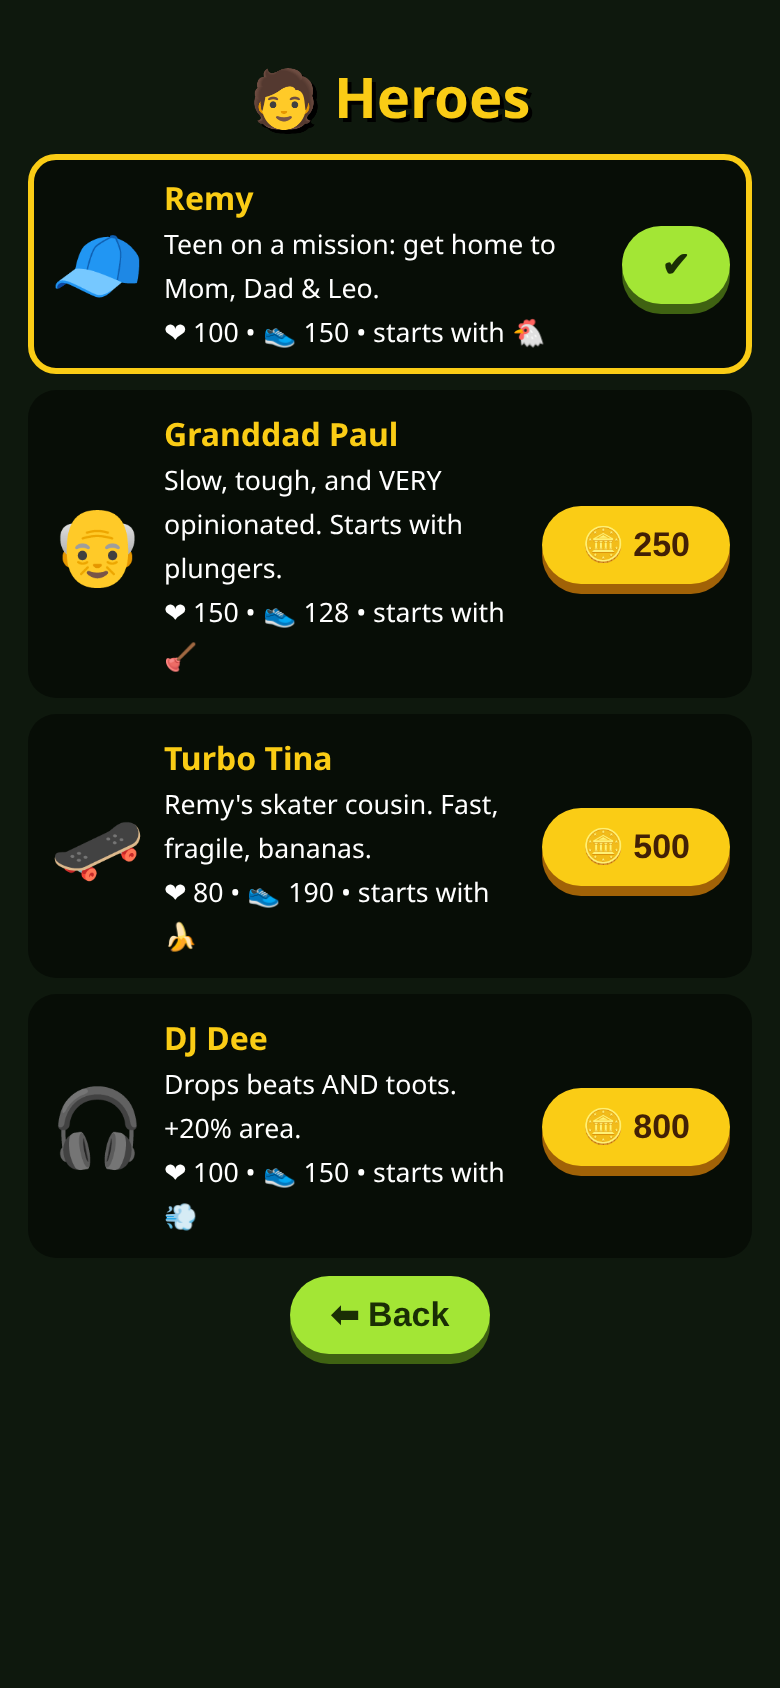
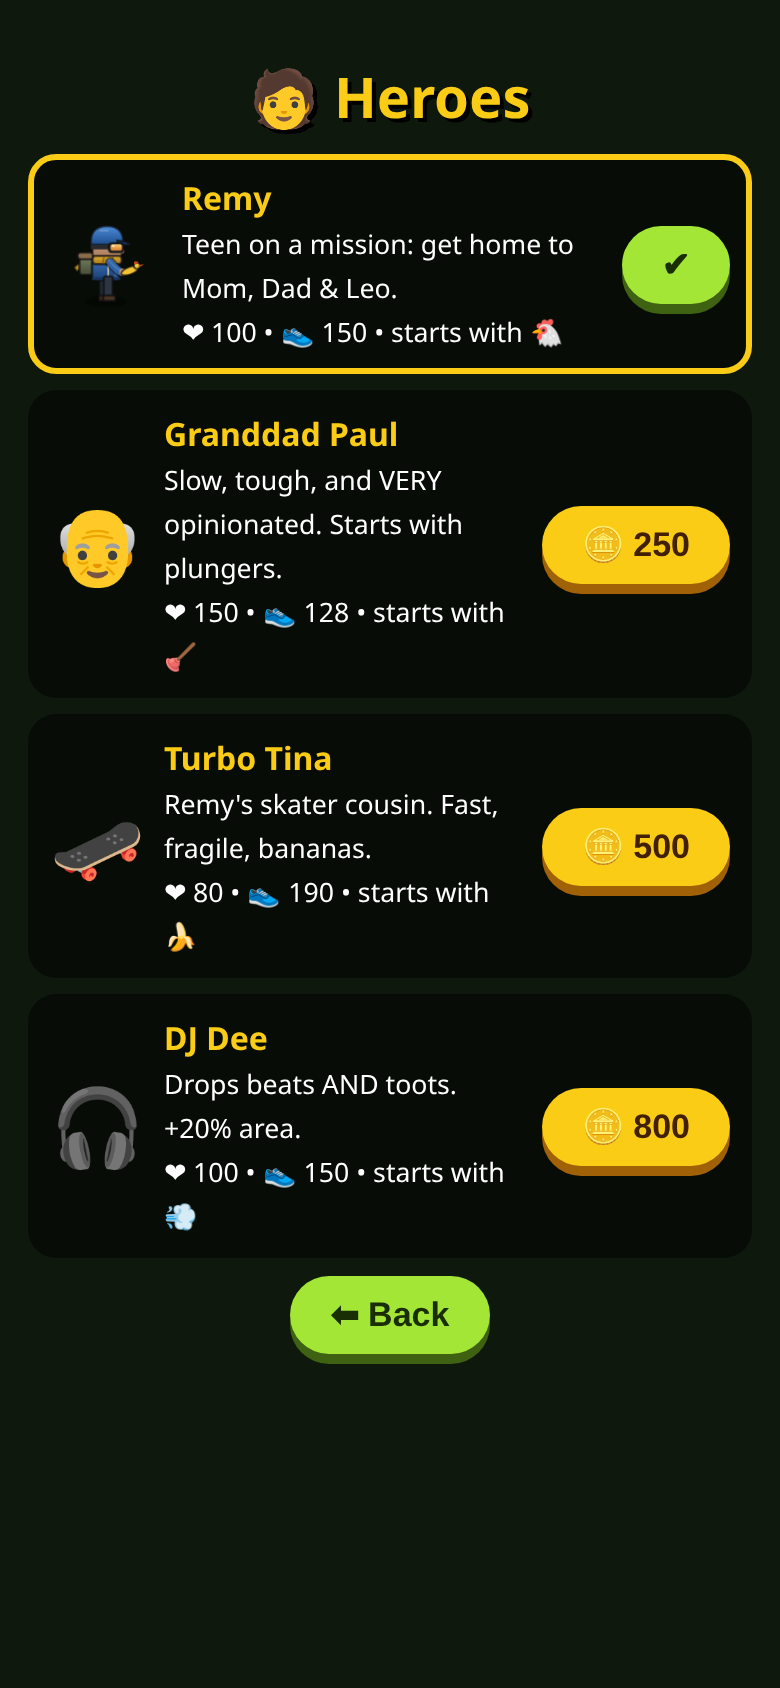
Remy restyle: chunky goggles/scarf survivor, consistent in comic/cutscenes/hero select; SW v13

Changed region(s): [[0.2154, 0.0924, 0.7385, 0.2156], [0.0615, 0.1232, 0.1846, 0.1848]]

diff --git a/game.js b/game.js
@@ -276,12 +276,48 @@ function buildAtlas(){const items=[];const flip=c=>{const o=document.createEleme
  for(const it of items){g.drawImage(it.c,it.b[0],it.b[1],it.b[2],it.b[3],it.x,it.y,it.b[2],it.b[3])}
  for(const dst of[ZA,HA])for(const k in dst)dst[k]=dst[k].map(it=>[it.x,it.y,it.b[2],it.b[3],(it.b[0]-it.full/2)/2,(it.b[1]-it.full/2)/2,it.b[2]/2,it.b[3]/2])}
 function blitA(a,x,y){cx.drawImage(ATL,a[0],a[1],a[2],a[3],x+a[4],y+a[5],a[6],a[7])}
+// Remy (v13): original chunky survivor. Rounded blue helmet-cap with short brim, amber goggles on a strap, long mustard scarf, boxy jacket, bedroll pack, rubber chicken in hand. No mouth/smiley.
+function hRemy(g,c,r,f){const ph=f/4*Math.PI*2,sw=Math.sin(ph),bob=Math.abs(Math.cos(ph))*r*.06;
+ const footY=c+r*1.3,hipY=c+r*.55-bob,shY=c-r*.15-bob,hx=c,O="rgba(14,14,16,.7)";
+ const box=(x,y,w,h,rr,fill)=>{g.fillStyle=fill;g.beginPath();g.roundRect(x,y,w,h,rr);g.fill();g.strokeStyle=O;g.lineWidth=1.3;g.stroke()};
+ g.fillStyle="rgba(0,0,0,.32)";g.beginPath();g.ellipse(c,footY+r*.04,r*.75,r*.2,0,0,7);g.fill();
+ // scarf tail trailing behind, flutters with the step
+ g.fillStyle="#b88a1c";g.strokeStyle=O;g.lineWidth=1.1;g.beginPath();g.moveTo(hx-r*.25,shY+r*.02);g.quadraticCurveTo(hx-r*.85,shY+r*.05+sw*r*.08,hx-r*1.15,shY+r*.32-sw*r*.1);g.lineTo(hx-r*1.05,shY+r*.48-sw*r*.1);g.quadraticCurveTo(hx-r*.75,shY+r*.28,hx-r*.2,shY+r*.24);g.closePath();g.fill();g.stroke();
+ // bedroll pack
+ box(hx-r*.95,shY-r*.02,r*.48,r*.62,r*.1,shade(g,0,shY,0,hipY,"#6f7a5a","#3f4733"));box(hx-r*1.02,shY-r*.2,r*.6,r*.24,r*.12,"#8a6b4a");
+ // legs: short, chunky, boots
+ const leg=(dx,cl,bt)=>{g.fillStyle=cl;g.strokeStyle=O;g.lineWidth=1.2;g.beginPath();g.roundRect(hx+dx-r*.16,hipY-r*.05,r*.32,footY-hipY-r*.05,r*.08);g.fill();g.stroke();box(hx+dx-r*.18,footY-r*.18,r*.44,r*.2,r*.07,bt)};
+ leg(-sw*r*.28-r*.08,"#252b36","#3d2c20");
+ // torso: boxy jacket
+ box(hx-r*.5,shY,r*1.0,hipY-shY+r*.1,r*.18,shade(g,0,shY,0,hipY,"#3a73bd","#1f4479"));
+ g.fillStyle="rgba(255,255,255,.14)";g.fillRect(hx+r*.3,shY+r*.08,r*.08,hipY-shY-r*.1);g.fillStyle="#173560";g.fillRect(hx-r*.5,hipY-r*.02,r*1.0,r*.1);g.fillStyle="#d9d0b8";g.fillRect(hx+r*.05,shY+r*.2,r*.05,hipY-shY-r*.25);// zip
+ leg(sw*r*.28+r*.08,"#2e3644","#4a3424");
+ // head: chunky rounded block
+ const hw=r*1.05,hh=r*.95,hX=hx+r*.04,hY=shY-hh+r*.08;box(hX-hw/2,hY,hw,hh,r*.26,shade(g,0,hY,0,hY+hh,"#d6a684","#a87a5a"));
+ g.fillStyle="#b9845f";g.beginPath();g.ellipse(hX+hw*.5,hY+hh*.66,r*.09,r*.08,0,0,7);g.fill();// nose bump, no mouth
+ // helmet-cap: rounded dome + short brim
+ g.fillStyle=shade(g,0,hY-r*.25,0,hY+hh*.4,"#4b8ad6","#1f4f8f");g.beginPath();g.moveTo(hX-hw*.56,hY+hh*.42);g.quadraticCurveTo(hX-hw*.6,hY-r*.28,hX,hY-r*.28);g.quadraticCurveTo(hX+hw*.58,hY-r*.28,hX+hw*.56,hY+hh*.42);g.closePath();g.fill();g.strokeStyle=O;g.lineWidth=1.3;g.stroke();
+ g.fillStyle="#173f73";g.beginPath();g.moveTo(hX+hw*.35,hY+hh*.26);g.quadraticCurveTo(hX+hw*.75,hY+hh*.28,hX+hw*.8,hY+hh*.42);g.lineTo(hX+hw*.35,hY+hh*.44);g.closePath();g.fill();g.stroke();
+ g.fillStyle="rgba(255,255,255,.2)";g.fillRect(hX-hw*.25,hY-r*.15,hw*.3,r*.07);
+ // goggles: strap + one big amber lens (side view) + rim
+ g.fillStyle="#2a2a2e";g.fillRect(hX-hw*.56,hY+hh*.42,hw*1.06,r*.16);
+ g.fillStyle="#3b3b40";g.beginPath();g.roundRect(hX+hw*.06,hY+hh*.36,hw*.5,r*.32,r*.1);g.fill();g.strokeStyle=O;g.stroke();
+ const lg=g.createLinearGradient(0,hY+hh*.38,0,hY+hh*.38+r*.26);lg.addColorStop(0,"#ffd27a");lg.addColorStop(1,"#d9771f");g.fillStyle=lg;g.beginPath();g.roundRect(hX+hw*.12,hY+hh*.4,hw*.38,r*.22,r*.07);g.fill();
+ g.fillStyle="rgba(255,255,255,.65)";g.fillRect(hX+hw*.17,hY+hh*.43,hw*.08,r*.06);
+ // scarf wrap around neck (chunky, covers chin)
+ box(hX-hw*.5,hY+hh-r*.16,hw*1.0,r*.3,r*.12,shade(g,0,hY+hh-r*.16,0,hY+hh+r*.14,"#e0ae34","#a8781a"));g.strokeStyle="rgba(120,80,10,.6)";g.lineWidth=1;g.beginPath();g.moveTo(hX-hw*.1,hY+hh-r*.14);g.lineTo(hX-hw*.15,hY+hh+r*.12);g.moveTo(hX+hw*.2,hY+hh-r*.14);g.lineTo(hX+hw*.15,hY+hh+r*.12);g.stroke();
+ // front arm (short, chunky) holding the rubber chicken (his starting weapon)
+ const ax=hx+r*.15,ay=shY+r*.15,ex=ax+r*.4-sw*r*.06,ey=ay+r*.35;limb(g,ax,ay,ax+r*.25,ay+r*.3,ex,ey,r*.26,"#2f62a8");g.fillStyle="#c9956f";g.beginPath();g.arc(ex+r*.06,ey,r*.13,0,7);g.fill();
+ g.save();g.translate(ex+r*.3,ey-r*.05);g.rotate(-.35-sw*.1);g.fillStyle="#f1c232";g.strokeStyle=O;g.lineWidth=1;g.beginPath();g.ellipse(0,0,r*.32,r*.13,0,0,7);g.fill();g.stroke();
+ g.beginPath();g.arc(r*.3,-r*.08,r*.11,0,7);g.fill();g.stroke();g.fillStyle="#d9461f";g.beginPath();g.moveTo(r*.4,-r*.08);g.lineTo(r*.55,-r*.04);g.lineTo(r*.4,-r*.01);g.fill();g.beginPath();g.arc(r*.28,-r*.2,r*.05,0,7);g.arc(r*.34,-r*.19,r*.04,0,7);g.fill();g.restore()}
+// draws Remy's hero frame into comic/cutscene art so he matches in-game
+function cRemy(g,x,y,ht,o={}){cFig(g,HS.remy[o.fr||0],x,y,ht,o.f<0);if(o.phone){g.fillStyle="#111";g.fillRect(x+(o.f<0?-1:1)*ht*.12-ht*.04,y-ht*.86,ht*.07,ht*.12)}}
 function buildZombies(){for(const k in ZT){const z=ZT[k],r=z.r,s=Math.ceil(r*(k==="boss"?3.9:3.4)+10);ZS[k]=[];
  for(let f=0;f<4;f++){mkSpr("z_"+k+f,s,(g,c)=>{if(k==="dog")zDog(g,c,r,f);else zHuman(g,c,r,ZL[k],f)});ZS[k].push(SPR["z_"+k+f])}SPR["z_"+k]=ZS[k][0]}}
 function drawZ(z,face){blitA(ZA[z.type][(((z.wob*(z.type==="dog"||z.type==="runner"?1.5:1))&3)<<1)|(face<0?1:0)],z.x,z.y)}
 function buildSprites(){
  buildZombies();
- for(const k in HEROES){HS[k]=[];for(let f=0;f<4;f++){mkSpr("h_"+k+f,62,(g,c)=>hHuman(g,c,15.5,HL[k],f));HS[k].push(SPR["h_"+k+f])}SPR["h_"+k]=HS[k][0]}
+ for(const k in HEROES){HS[k]=[];for(let f=0;f<4;f++){mkSpr("h_"+k+f,62,(g,c)=>k==="remy"?hRemy(g,c,15.5,f):hHuman(g,c,15.5,HL[k],f));HS[k].push(SPR["h_"+k+f])}SPR["h_"+k]=HS[k][0]}
  buildAtlas();
  const em=["🐔","🍌","🪠","🦆","🥧","🍗","🪙","🍕","🧲","🎁","🐱","😼","🍨","🔥","🧀"];
  for(const e of em)mkSpr("e_"+e,36,(g,c)=>{g.font="26px serif";g.textAlign="center";g.textBaseline="middle";g.fillText(e,c,c+1)});
@@ -566,13 +602,13 @@ function cZ(g,k,x,y,s,f){const c=ZS[k][1],w=c.width/2*s;g.save();g.translate(x,y
 function cArt(set,i,w,h){const key=set+i+"_"+w+"x"+h;if(PART[key])return PART[key];const cv2=document.createElement("canvas");cv2.width=w*2;cv2.height=h*2;const g=cv2.getContext("2d");g.scale(2,2);
  const sc=SCENE[set][i],gy=h*.86,u=Math.min(w,h)/220;const sky=(a,b)=>{const gr=g.createLinearGradient(0,0,0,h);gr.addColorStop(0,a);gr.addColorStop(1,b);g.fillStyle=gr;g.fillRect(0,0,w,h)};
  const ground=c=>{g.fillStyle=c;g.fillRect(0,gy,w,h-gy)};const house=(x,y,hw,col)=>{g.fillStyle=col;g.fillRect(x,y-hw*.6,hw,hw*.6);g.beginPath();g.moveTo(x-6,y-hw*.6);g.lineTo(x+hw/2,y-hw);g.lineTo(x+hw+6,y-hw*.6);g.fill();g.fillStyle="#c9a85a";g.fillRect(x+hw*.15,y-hw*.45,hw*.18,hw*.15);g.fillStyle="#1a1714";g.fillRect(x+hw*.6,y-hw*.35,hw*.18,hw*.35)};
- if(sc==="home"){sky("#6d7a86","#a9a087");ground("#4b5240");house(w*.55,gy,w*.38,"#5b544a");cHum(g,w*.25,gy,u*1.3,"#3c5a7a",{phone:1,cap:"#2f4a66"});cHum(g,w*.44,gy,u*1.25,"#6b6b6b",{hair:"#cfcfcf",f:-1})}
+ if(sc==="home"){sky("#6d7a86","#a9a087");ground("#4b5240");house(w*.55,gy,w*.38,"#5b544a");cRemy(g,w*.25,gy,58*u*1.3,{phone:1});cHum(g,w*.44,gy,u*1.25,"#6b6b6b",{hair:"#cfcfcf",f:-1})}
  if(sc==="call"){sky("#2c2a33","#4a3f3a");g.fillStyle="#1b1a1e";g.fillRect(w*.08,h*.12,w*.42,h*.5);g.fillStyle="#5d6470";g.fillRect(w*.1,h*.14,w*.38,h*.46);cZ(g,"shamb",w*.2,h*.62,u*1.2,0);cZ(g,"runner",w*.36,h*.62,u*1.1,1);g.fillStyle="#1b1a1e";g.fillRect(w*.285,h*.12,w*.02,h*.5);ground("#2d2925");cHum(g,w*.72,gy,u*1.35,"#4e5a4a",{phone:1,f:-1})}
- if(sc==="dropped"){sky("#7c838a","#8f8775");ground("#4b5240");g.fillStyle="#3a3530";g.fillRect(w*.68,gy-h*.28,4,h*.28);g.fillStyle="#565049";g.fillRect(w*.64,gy-h*.34,w*.12,h*.08);cZ(g,"shamb",w*.78,gy,u*1.4,1);cHum(g,w*.28,gy,u*1.35,"#3c5a7a",{phone:1,cap:"#2f4a66"})}
- if(sc==="garage"){sky("#3b3631","#5a5048");g.fillStyle="#2b2723";for(let j=0;j<3;j++)g.fillRect(0,h*(.2+j*.18),w,4);ground("#35312c");g.fillStyle="#7a6446";g.fillRect(w*.45,gy-h*.42,w*.1,h*.08);cHum(g,w*.34,gy,u*1.3,"#6b6b6b",{hair:"#cfcfcf",reach:1});cHum(g,w*.68,gy,u*1.3,"#3c5a7a",{cap:"#2f4a66",reach:1,f:-1})}
- if(sc==="road"){sky("#8a7f6c","#b3a17f");g.fillStyle="#3a3a38";g.beginPath();g.moveTo(w*.42,h*.45);g.lineTo(w*.58,h*.45);g.lineTo(w*.95,h);g.lineTo(w*.05,h);g.fill();g.fillStyle="#6b6448";g.fillRect(0,h*.45,w*.42,h*.02);cZ(g,"shamb",w*.55,h*.6,u*.6,1);cZ(g,"runner",w*.66,h*.68,u*.75,1);cZ(g,"shamb",w*.3,h*.7,u*.8,0);cHum(g,w*.48,h*.97,u*1.3,"#3c5a7a",{cap:"#2f4a66"})}
- if(sc==="door"){sky("#3a3632","#5c5348");ground("#3e4236");house(w*.3,gy,w*.5,"#5a524a");cZ(g,"boss",w*.2,gy,u*.7,0);g.fillStyle="rgba(120,150,60,.35)";g.beginPath();g.ellipse(w*.2,gy-h*.15,w*.16,h*.12,0,0,7);g.fill();cHum(g,w*.82,gy,u*1.3,"#3c5a7a",{cap:"#2f4a66",f:-1})}
- if(sc==="family"){sky("#5d5850","#857a68");ground("#4a4238");cHum(g,w*.2,gy,u*1.25,"#6e4f5a",{hair:"#4a3020"});cHum(g,w*.4,gy,u*1.35,"#4e5a4a",{});cHum(g,w*.6,gy,u*1.3,"#3c5a7a",{cap:"#2f4a66"});cHum(g,w*.8,gy,u*.85,"#7a6a3e",{pot:1,f:-1})}
+ if(sc==="dropped"){sky("#7c838a","#8f8775");ground("#4b5240");g.fillStyle="#3a3530";g.fillRect(w*.68,gy-h*.28,4,h*.28);g.fillStyle="#565049";g.fillRect(w*.64,gy-h*.34,w*.12,h*.08);cZ(g,"shamb",w*.78,gy,u*1.4,1);cRemy(g,w*.28,gy,58*u*1.35,{phone:1})}
+ if(sc==="garage"){sky("#3b3631","#5a5048");g.fillStyle="#2b2723";for(let j=0;j<3;j++)g.fillRect(0,h*(.2+j*.18),w,4);ground("#35312c");g.fillStyle="#7a6446";g.fillRect(w*.45,gy-h*.42,w*.1,h*.08);cHum(g,w*.34,gy,u*1.3,"#6b6b6b",{hair:"#cfcfcf",reach:1});cRemy(g,w*.68,gy,58*u*1.3,{f:-1})}
+ if(sc==="road"){sky("#8a7f6c","#b3a17f");g.fillStyle="#3a3a38";g.beginPath();g.moveTo(w*.42,h*.45);g.lineTo(w*.58,h*.45);g.lineTo(w*.95,h);g.lineTo(w*.05,h);g.fill();g.fillStyle="#6b6448";g.fillRect(0,h*.45,w*.42,h*.02);cZ(g,"shamb",w*.55,h*.6,u*.6,1);cZ(g,"runner",w*.66,h*.68,u*.75,1);cZ(g,"shamb",w*.3,h*.7,u*.8,0);cRemy(g,w*.48,h*.97,58*u*1.3,{})}
+ if(sc==="door"){sky("#3a3632","#5c5348");ground("#3e4236");house(w*.3,gy,w*.5,"#5a524a");cZ(g,"boss",w*.2,gy,u*.7,0);g.fillStyle="rgba(120,150,60,.35)";g.beginPath();g.ellipse(w*.2,gy-h*.15,w*.16,h*.12,0,0,7);g.fill();cRemy(g,w*.82,gy,58*u*1.3,{f:-1})}
+ if(sc==="family"){sky("#5d5850","#857a68");ground("#4a4238");cHum(g,w*.2,gy,u*1.25,"#6e4f5a",{hair:"#4a3020"});cHum(g,w*.4,gy,u*1.35,"#4e5a4a",{});cRemy(g,w*.6,gy,58*u*1.3,{});cHum(g,w*.8,gy,u*.85,"#7a6a3e",{pot:1,f:-1})}
  if(sc==="couch"){sky("#4a4440","#6a5e52");ground("#3a332c");g.fillStyle="#5a3e34";g.fillRect(w*.12,gy-h*.22,w*.76,h*.16);g.fillRect(w*.1,gy-h*.34,w*.8,h*.12);[.25,.42,.58,.74].forEach((x,j)=>cHum(g,w*x,gy-h*.12,u*(j===3?.7:1),["#6e4f5a","#4e5a4a","#3c5a7a","#7a6a3e"][j],{cap:j===2?"#2f4a66":0}));g.fillStyle="#111";g.fillRect(w*.86,gy-h*.42,6,10)}
  // ink texture: halftone dots + vignette + border
  g.fillStyle="rgba(0,0,0,.13)";for(let y=0;y<h;y+=6)for(let x=(y/6%2)*3;x<w;x+=6){const r=.4+1.4*(y/h);g.beginPath();g.arc(x,y,r,0,7);g.fill()}
@@ -617,7 +653,8 @@ function cutArt(i,w,h){const key=i+"_"+w+"x"+h;if(CUTS[key])return CUTS[key];con
  const rx=w*.16,ry=h*1.02,rr=Math.min(w,h)*.2;g.fillStyle="#2a3a4c";g.beginPath();g.ellipse(rx,ry+rr*.6,rr*1.6,rr*.75,0,Math.PI,0);g.fill();
  const hg=g.createRadialGradient(rx+rr*.4,ry-rr*.9,rr*.1,rx,ry-rr*.6,rr*1.1);hg.addColorStop(0,"#6b4a33");hg.addColorStop(1,"#1e140e");g.fillStyle=hg;g.beginPath();g.ellipse(rx,ry-rr*.55,rr*.82,rr*.95,0,0,7);g.fill();
  g.fillStyle="#9a7058";g.beginPath();g.ellipse(rx+rr*.78,ry-rr*.5,rr*.13,rr*.22,0,0,7);g.fill();
- const cg=g.createLinearGradient(0,ry-rr*1.6,0,ry-rr*.9);cg.addColorStop(0,"#3e6b9a");cg.addColorStop(1,"#1e3550");g.fillStyle=cg;g.beginPath();g.ellipse(rx,ry-rr*1.05,rr*.88,rr*.6,0,Math.PI,0);g.fill();g.fillStyle="#1a2a3c";g.fillRect(rx-rr*.25,ry-rr*1.02,rr*.5,rr*.14);g.strokeStyle="rgba(255,170,90,.45)";g.lineWidth=3;g.beginPath();g.arc(rx,ry-rr*.6,rr*.9,-1.2,.2);g.stroke();// rim light from fire
+ const cg=g.createLinearGradient(0,ry-rr*1.6,0,ry-rr*.9);cg.addColorStop(0,"#4b8ad6");cg.addColorStop(1,"#1f4f8f");g.fillStyle=cg;g.beginPath();g.ellipse(rx,ry-rr*1.05,rr*.88,rr*.6,0,Math.PI,0);g.fill();g.fillStyle="#2a2a2e";g.fillRect(rx-rr*.86,ry-rr*.98,rr*1.72,rr*.16);g.fillStyle="#3b3b40";g.fillRect(rx-rr*.12,ry-rr*1.0,rr*.24,rr*.2);g.fillStyle="#d4a232";g.beginPath();g.ellipse(rx,ry-rr*.05,rr*.95,rr*.3,0,0,7);g.fill();g.beginPath();g.moveTo(rx+rr*.5,ry);g.quadraticCurveTo(rx+rr*1.2,ry+rr*.3,rx+rr*1.3,ry+rr*.9);g.lineTo(rx+rr*1.0,ry+rr*.9);g.quadraticCurveTo(rx+rr*.9,ry+rr*.4,rx+rr*.3,ry+rr*.1);g.fill();// goggle strap + mustard scarf (v13 Remy)
+ g.strokeStyle="rgba(255,170,90,.45)";g.lineWidth=3;g.beginPath();g.arc(rx,ry-rr*.6,rr*.9,-1.2,.2);g.stroke();// rim light from fire
  g.fillStyle="rgba(0,0,0,.13)";for(let y=0;y<h;y+=6)for(let x=(y/6%2)*3;x<w;x+=6){g.beginPath();g.arc(x,y,.4+1.2*(y/h),0,7);g.fill()}
  const vg=g.createRadialGradient(w/2,h/2,Math.min(w,h)*.3,w/2,h/2,Math.max(w,h)*.7);vg.addColorStop(0,"rgba(0,0,0,0)");vg.addColorStop(1,"rgba(0,0,0,.5)");g.fillStyle=vg;g.fillRect(0,0,w,h);g.strokeStyle="#0b0b0b";g.lineWidth=5;g.strokeRect(2.5,2.5,w-5,h-5);CUTS[key]=c;return c}
 // ===== Between-town cutscenes: one unique scene per transition (id = next town). Beats = comic panels + short cinematic moves.
@@ -677,7 +714,7 @@ const CSC={ // id -> beats. fx: zoom | pan | shadow | flick | none. d = ms. Tota
    const sp=g.createLinearGradient(w*.8,h*.2,w*.76,h*.62);sp.addColorStop(0,"rgba(230,230,200,.35)");sp.addColorStop(1,"rgba(230,230,200,0)");g.fillStyle=sp;g.beginPath();g.moveTo(w*.8-3,h*.2);g.lineTo(w*.8+3,h*.2);g.lineTo(w*.8+20,h*.62);g.lineTo(w*.8-40,h*.62);g.fill();
    cFig(g,HS.remy[1],w*.12,h*.71,h*.12,0)}},
   {d:5500,fx:"shadow",art:(g,w,h,i)=>{const gr=g.createLinearGradient(0,0,0,h);gr.addColorStop(0,"#0c0f18");gr.addColorStop(1,"#2a1e1e");g.fillStyle=gr;g.fillRect(0,0,w,h);g.fillStyle="#141418";g.fillRect(0,h*.82,w,h*.18);g.fillStyle="#1c1c22";for(let x=0;x<w;x+=w/12)g.fillRect(x,h*.7,4,h*.12);g.fillRect(0,h*.7,w,4);
-   g.fillStyle="#2a3a4c";g.beginPath();g.ellipse(w*.5,h*1.02,w*.2,h*.16,0,Math.PI,0);g.fill();g.fillStyle="#2b1d14";g.beginPath();g.ellipse(w*.5,h*.8,w*.09,h*.11,0,0,7);g.fill();g.fillStyle="#1e3a5e";g.beginPath();g.ellipse(w*.5,h*.73,w*.095,h*.06,0,Math.PI,0);g.fill()}}],
+   g.fillStyle="#2a3a4c";g.beginPath();g.ellipse(w*.5,h*1.02,w*.2,h*.16,0,Math.PI,0);g.fill();g.fillStyle="#2b1d14";g.beginPath();g.ellipse(w*.5,h*.8,w*.09,h*.11,0,0,7);g.fill();g.fillStyle="#2f6fc0";g.beginPath();g.ellipse(w*.5,h*.73,w*.095,h*.06,0,Math.PI,0);g.fill();g.fillStyle="#2a2a2e";g.fillRect(w*.405,h*.74,w*.19,h*.02);g.fillStyle="#d4a232";g.fillRect(w*.42,h*.88,w*.16,h*.05)}}],
  charleston:[ // Savannah -> Charleston: roadside shop, crackling radio, Remy leans in
   {d:4000,fx:"none",art:(g,w,h,i)=>{cutSky(g,w,h,i,.6,0);ground(g,w,h,h*.64);g.fillStyle="#2a2522";g.fillRect(w*.3,h*.38,w*.42,h*.28);g.fillStyle="#3c2a22";g.beginPath();g.moveTo(w*.27,h*.4);g.lineTo(w*.5,h*.28);g.lineTo(w*.75,h*.4);g.fill();
    g.fillStyle="#7a6a4a";g.fillRect(w*.38,h*.33,w*.24,h*.05);g.fillStyle="#1b1816";g.font="900 "+Math.round(h*.035)+"px system-ui";g.textAlign="center";g.fillText("BAIT  ·  TACKLE  ·  RADIO",w*.5,h*.365);lit(g,w*.36,h*.46,w*.1,h*.08,.6);g.fillStyle="#120f0e";g.fillRect(w*.53,h*.47,w*.08,h*.19);
@@ -703,7 +740,7 @@ const CSC={ // id -> beats. fx: zoom | pan | shadow | flick | none. d = ms. Tota
    g.fillStyle="#5a5030";for(let k=0;k<10;k++){g.beginPath();g.ellipse(w*(.05+k*.09),h*.9,w*.05,h*.03,0,0,7);g.fill()}g.strokeStyle="#7a2a1a";g.lineWidth=2;g.beginPath();g.moveTo(w*.3,h*.68);g.lineTo(w*.45,h*.68);g.stroke()}},
   {d:4200,fx:"zoom",art:(g,w,h,i)=>{cutSky(g,w,h,i,.55,0);ground(g,w,h,h*.6);g.save();g.translate(w*.55,h*.66);g.rotate(-.12);g.fillStyle="#2c3026";g.fillRect(-w*.12,-h*.06,w*.24,h*.06);g.fillRect(-w*.07,-h*.11,w*.11,h*.05);g.fillRect(w*.03,-h*.1,w*.15,h*.015);g.restore();
    g.fillStyle="#5a5030";for(let k=0;k<8;k++){g.beginPath();g.ellipse(w*(k*.15),h*.92,w*.1,h*.07,0,0,7);g.fill()}g.fillStyle="#4a4228";for(let k=0;k<8;k++){g.beginPath();g.ellipse(w*(.07+k*.15),h*.84,w*.09,h*.06,0,0,7);g.fill()}
-   g.fillStyle="#2b1d14";g.beginPath();g.ellipse(w*.35,h*.8,w*.07,h*.08,0,0,7);g.fill();g.fillStyle="#1e3a5e";g.beginPath();g.ellipse(w*.35,h*.76,w*.075,h*.05,0,Math.PI,0);g.fill();g.fillRect(w*.33,h*.755,w*.07,h*.012);g.fillStyle="#c99a78";g.beginPath();g.arc(w*.3,h*.83,h*.02,0,7);g.arc(w*.41,h*.83,h*.02,0,7);g.fill()}},
+   g.fillStyle="#2b1d14";g.beginPath();g.ellipse(w*.35,h*.8,w*.07,h*.08,0,0,7);g.fill();g.fillStyle="#2f6fc0";g.beginPath();g.ellipse(w*.35,h*.76,w*.075,h*.05,0,Math.PI,0);g.fill();g.fillStyle="#2a2a2e";g.fillRect(w*.28,h*.765,w*.14,h*.012);g.fillStyle="#d4a232";g.fillRect(w*.3,h*.86,w*.1,h*.025);g.fillStyle="#c99a78";g.beginPath();g.arc(w*.3,h*.83,h*.02,0,7);g.arc(w*.41,h*.83,h*.02,0,7);g.fill()}},
   {d:4600,fx:"pan",wide:1.5,art:(g,w,h,i)=>{cutSky(g,w,h,i,.6,0);ground(g,w,h,h*.62);road(g,w,h,h*.62,w*.4);g.fillStyle="#1b1a16";for(let k=0;k<6;k++){g.save();g.translate(w*(.1+k*.16),h*(.75+(k%2)*.05));g.rotate((k%3-1)*.3);g.fillRect(-w*.03,-h*.03,w*.06,h*.05);g.restore()}
    g.strokeStyle="#6a5a3a";g.lineWidth=1.5;g.beginPath();for(let x=0;x<w;x+=12){g.moveTo(x,h*.66);g.lineTo(x+6,h*.62);g.lineTo(x+12,h*.66)}g.stroke();cFig(g,HS.remy[2],w*.15,h*.92,h*.2,0)}}],
  pamplico:[ // Florence -> Pamplico: dark road, the hometown sign, a far lit window. Heavier.
@@ -754,7 +791,7 @@ function renderDiff(){const r=$("diffRow");r.innerHTML="";for(const k in DIFF){c
  $("diffInfo").textContent="Coins x"+DIFF[save.diff].coin+" • Journey: "+prog().cleared.length+"/"+STAGES.length+" towns cleared"}
 // heroes & shop
 function renderHeroes(){const l=$("heroList");l.innerHTML="";for(const k in HEROES){const h=HEROES[k],own=save.heroes.includes(k);const d=document.createElement("div");d.className="hero"+(save.hero===k?" sel":"");
- d.innerHTML=`<div style="font-size:38px">${h.i}</div><div style="flex:1"><b style="color:#facc15">${h.n}</b><br><small>${h.d}<br>❤ ${h.hp} • 👟 ${h.spd} • starts with ${W8[h.w].i}</small></div>`;const b=document.createElement("button");b.className="btn sm"+(own?"":" alt");
+ d.innerHTML=`<div style="font-size:38px">${k==="remy"?`<img alt="Remy" class="hicon" src="${HS.remy[0].toDataURL()}" style="width:56px;height:56px;display:block">`:h.i}</div><div style="flex:1"><b style="color:#facc15">${h.n}</b><br><small>${h.d}<br>❤ ${h.hp} • 👟 ${h.spd} • starts with ${W8[h.w].i}</small></div>`;const b=document.createElement("button");b.className="btn sm"+(own?"":" alt");
  b.textContent=save.hero===k?"✔":own?"Pick":"🪙 "+h.cost;b.disabled=!own&&save.coins<h.cost;b.dataset.h=k;b.onclick=()=>{if(!own){save.coins-=h.cost;save.heroes.push(k);sfx("coin")}save.hero=k;persist();renderHeroes()};d.appendChild(b);l.appendChild(d)}}
 function renderShop(){$("shopCoins").textContent="🪙 "+save.coins+" coins";const l=$("shopList");l.innerHTML="";for(const k in SHOP){const s=SHOP[k],lv=shopLv(k),cost=s.c*(lv+1);const d=document.createElement("div");d.className="shopit";
  d.innerHTML=`<div style="font-size:30px">${s.i}</div><div style="flex:1"><b>${s.n}</b> <small>(${lv}/${s.m})</small><br><small>${s.d}</small></div>`;const b=document.createElement("button");b.className="btn sm";b.dataset.s=k;

diff --git a/index.html b/index.html
@@ -71,8 +71,8 @@ table{border-collapse:collapse;font-size:14px;background:#0007;border-radius:12p
 <div id="ini" class="hidden"><p><b>🎉 Top 10! Pick your initials</b></p><div id="iniCols"></div><br><button class="btn" id="iniSave">✔ Save</button></div>
 <div id="overBoard"></div><div id="overBtns" style="display:flex;flex-direction:column;gap:10px;align-items:center"><button class="btn" id="againB">🔁 Again</button><button class="btn sm alt" id="homeB">🏠 Home</button></div></div>
 <div class="screen hidden" id="board"><h2 id="boardTitle">🏆 Top 10</h2><div id="boardList"></div><button class="btn sm" id="boardBack">⬅ Back</button></div>
-<script src="dadnotes.js?v=12"></script><script src="verses.js?v=12"></script><script src="towns-data.js?v=12"></script><script src="cutscene-lines.js?v=12"></script><script src="game.js?v=12"></script>
-<script>if('serviceWorker'in navigator&&location.protocol!=='file:')navigator.serviceWorker.register('sw.js?v=12');
+<script src="dadnotes.js?v=13"></script><script src="verses.js?v=13"></script><script src="towns-data.js?v=13"></script><script src="cutscene-lines.js?v=13"></script><script src="game.js?v=13"></script>
+<script>if('serviceWorker'in navigator&&location.protocol!=='file:')navigator.serviceWorker.register('sw.js?v=13');
 let deferredPrompt=null;const ib=document.getElementById("installBtn"),hp=document.getElementById("installHelp");
 const standalone=()=>matchMedia("(display-mode: standalone)").matches||matchMedia("(display-mode: fullscreen)").matches||navigator.standalone;
 if(standalone())ib.classList.add("hidden");

diff --git a/sw.js b/sw.js
@@ -1,5 +1,5 @@
-const VER="12",CACHE="remysurv-v"+VER;
-const SHELL=["./","index.html","dadnotes.js?v=12","verses.js?v=12","towns-data.js?v=12","cutscene-lines.js?v=12","game.js?v=12","manifest.webmanifest","icons/icon-192.png","icons/icon-512.png","icons/maskable-512.png"];
+const VER="13",CACHE="remysurv-v"+VER;
+const SHELL=["./","index.html","dadnotes.js?v=13","verses.js?v=13","towns-data.js?v=13","cutscene-lines.js?v=13","game.js?v=13","manifest.webmanifest","icons/icon-192.png","icons/icon-512.png","icons/maskable-512.png"];
 self.addEventListener("install",e=>{e.waitUntil(caches.open(CACHE).then(c=>c.addAll(SHELL.map(u=>new Request(u,{cache:"reload"})))).then(()=>self.skipWaiting()))});
 self.addEventListener("activate",e=>{e.waitUntil(caches.keys().then(ks=>Promise.all(ks.filter(k=>k.startsWith("remysurv-")&&k!==CACHE).map(k=>caches.delete(k)))).then(()=>self.clients.claim()))});
 self.addEventListener("fetch",e=>{const r=e.request;if(r.method!=="GET"||new URL(r.url).origin!==location.origin)return;

diff --git a/v11test.py b/v11test.py
@@ -117,7 +117,7 @@ with sync_playwright() as p:
   E(SET+"for(let i=0;i<3;i++){const t=__rs.spawnZ('tank',p.x+60+i*50,p.y-20+i*30);t.spd=0}const b=__rs.spawnZ('boss',p.x-140,p.y);b.spd=0;b.dashCd=99;");pg.wait_for_timeout(400);pg.screenshot(path=O+"boss-and-tanks-915.png")
   # offline
   pg.goto("http://localhost:8826/");pg.wait_for_timeout(1500);E("navigator.serviceWorker.ready");pg.wait_for_timeout(800);keys=E("caches.keys()");ctx.set_offline(True);pg.reload();pg.wait_for_timeout(800)
-  ok("offline: loads from SW cache remysurv-v12","remysurv-v12" in keys and E("typeof TOWNS!=='undefined'&&typeof __rs!=='undefined'"),keys);ctx.set_offline(False)
+  ok("offline: loads from SW cache remysurv-v13","remysurv-v13" in keys and E("typeof TOWNS!=='undefined'&&typeof __rs!=='undefined'"),keys);ctx.set_offline(False)
   print("errors",errs);ok("no console errors",not errs)
   b.close()
 srv.kill();print(sum(R),"/",len(R))
